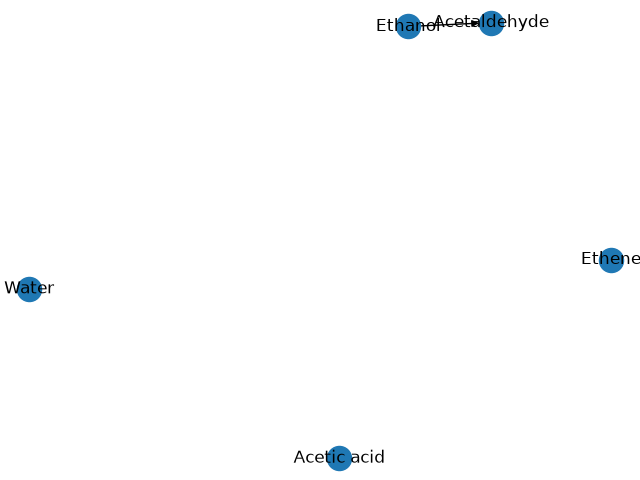
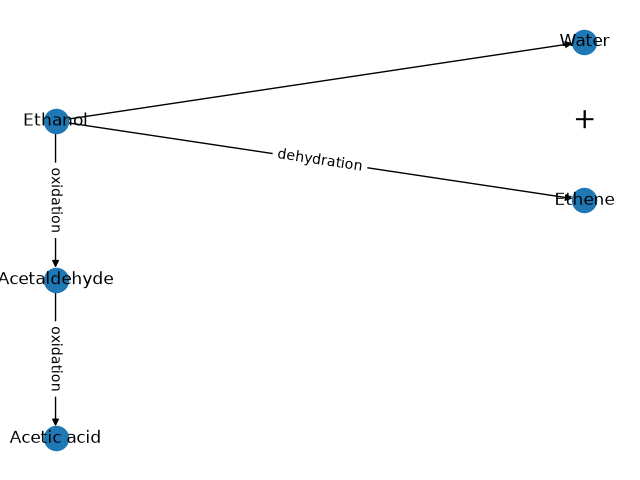
Complete reaction network and queries

diff --git a/build_network.py b/build_network.py
@@ -67,11 +67,50 @@ for node in nodes:
     G.add_node(node["id"], label=node["label"])
 
 for edge in edges:
-    G.add_edge(edge["source"], edge["target"])
+    G.add_edge(
+        edge["source"],
+        edge["target"],
+        reaction_type=edge["reaction_type"]
+    )
+  
+
+
 
 labels = nx.get_node_attributes(G, "label")
+edge_labels = {
+    ("M001", "M002"): "oxidation",
+    ("M002", "M003"): "oxidation",
+    ("M001", "M004"): "dehydration"
+}
 
-nx.draw(G, with_labels=True, labels=labels, arrows=True)
+pos = {
+    "M001": (0, 0),       # Ethanol
+
+    "R001": (0, -1),
+    "M002": (0, -2),      # Acetaldehyde
+    "R002": (0, -3),
+    "M003": (0, -4),      # Acetic acid
+
+    "R003": (2, 0),
+    "M004": (3, -1),      # Ethene
+    "M005": (3, 1)        # Water
+}
+
+
+nx.draw(G, pos, with_labels=True, labels=labels, arrows=True)
+nx.draw_networkx_edge_labels(
+    G,
+    pos,
+    edge_labels=edge_labels
+)
+plt.text(
+    3, 0,
+    "+",
+    fontsize=20,
+    ha="center",
+    va="center"
+)
+
 plt.savefig("rxn-net.png")
 plt.close()
 
@@ -86,3 +125,12 @@ for edge in edges:
              products.append(node["label"])
 
 print("Products reachable from Ethanol:", products)
+
+high_yield_reactions = []
+
+for edge in edges:
+    if float(edge["yield_percent"]) > 90:
+       if edge["id"] not in high_yield_reactions:
+          high_yield_reactions.append(edge["id"])
+
+print("Reactions with yield > 90%:", high_yield_reactions)

diff --git a/README.md b/README.md
@@ -16,12 +16,28 @@ The molecular records were combined with the reaction data from `rxn.csv` and `r
 
 The compounds are represented as nodes and the reactions as directed edges. The reaction network was saved as `rxn-net.json` and visualized in `rxn-net.png`.
 
-### Part C – Query
+### Part C – Query and filtering
 
-A simple query was implemented to find products that can be reached directly from ethanol.
+Two simple queries were implemented.
 
-For the current reaction network, the query returns:
+The first query finds products that can be reached directly from ethanol. 
+The result is:
 
-`Acetaldehyde`
+- Acetaldehyde
+- Ethene
+- Water
 
-This shows how structured chemical data can be searched and reused programmatically.
+The second query filters reactions with a yield higher than 90%.
+
+The result is:
+
+- R002
+- R003
+
+## Reflection
+
+In this homework, molecular data from different CSV files were combined and converted into structured JSON data.
+
+A reaction network was created using NetworkX and visualized with Matplotlib. The network shows the relationships between molecules and the corresponding reaction types.
+
+The exercise also demonstrates how reaction data can be searched and filtered using Python.
